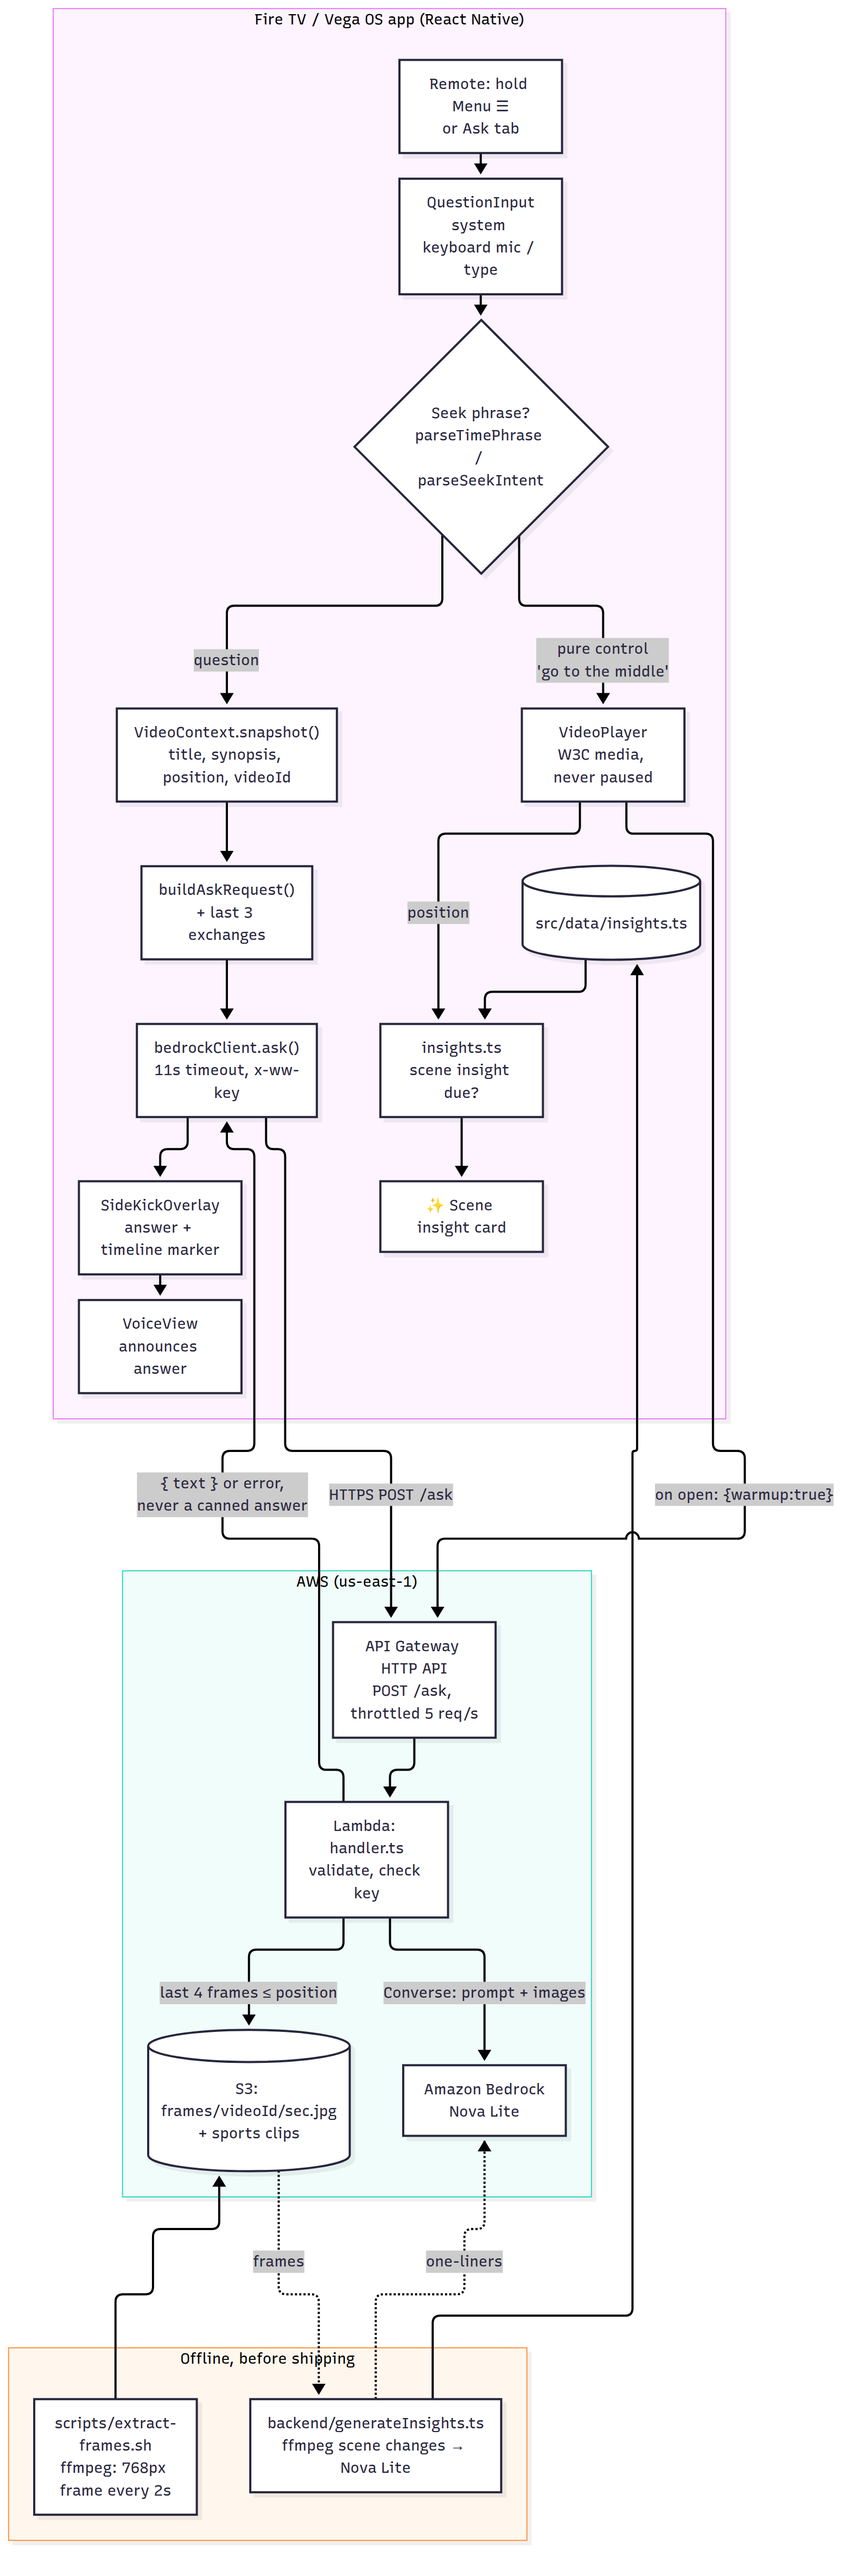
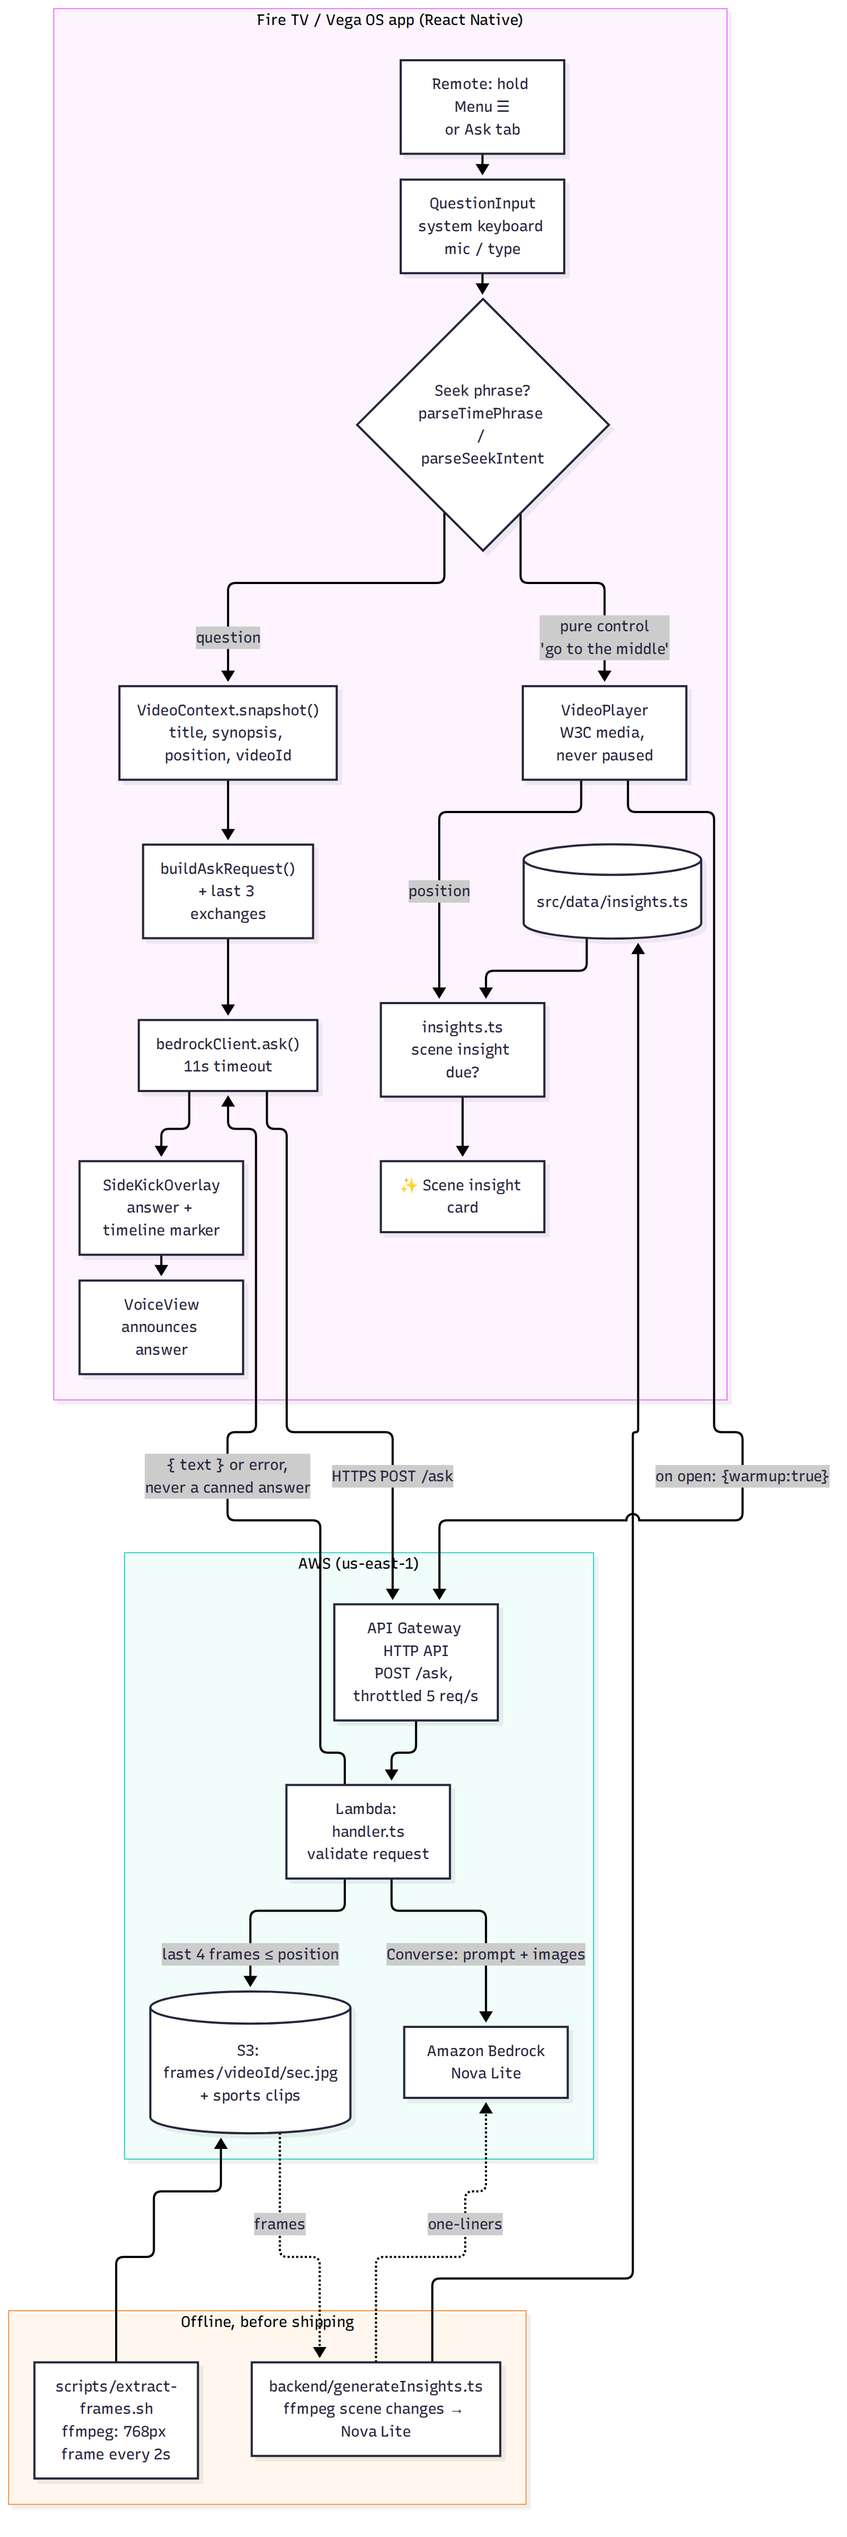
Architecture diagram: drop the removed shared key

diff --git a/README.md b/README.md
@@ -99,7 +99,7 @@ flowchart TB
 
   subgraph AWS["AWS (us-east-1)"]
     direction LR
-    APIGW["API Gateway HTTP API<br/>POST /ask, throttled 5 req/s"] --> Lambda["Lambda: handler.ts<br/>validate, check key"]
+    APIGW["API Gateway HTTP API<br/>POST /ask, throttled 5 req/s"] --> Lambda["Lambda: handler.ts<br/>validate request"]
     Lambda -- "last 4 frames ≤ position" --> S3[("S3: frames/videoId/sec.jpg<br/>+ sports clips")]
     Lambda -- "Converse: prompt + images" --> Bedrock["Amazon Bedrock<br/>Nova Lite"]
   end
@@ -122,7 +122,7 @@ flowchart TB
 **How a question flows:** the viewer holds Menu (☰) and asks. Pure seek commands
 ("go to the middle") are handled on the TV with no network call. Everything else
 becomes a grounded request (title, synopsis, playback position, video id, recent
-exchanges) sent to API Gateway. The Lambda checks the shared key, loads the last
+exchanges) sent to API Gateway. The Lambda validates the request, loads the last
 four frames at or before the position from S3, and sends them with the question to
 Nova Lite. The answer appears in the side panel, drops a marker on the timeline and
 is announced by VoiceView, while the video keeps playing. Scene insights are
